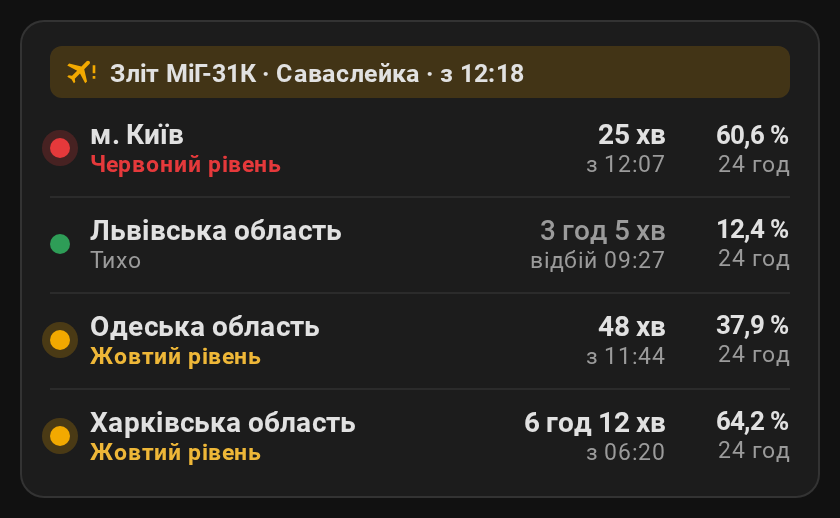
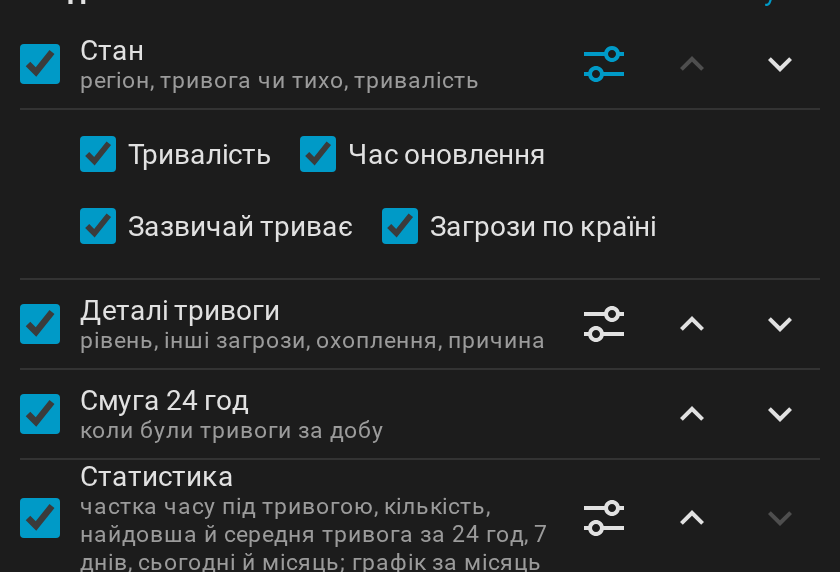
Docs: card screenshots for 0.15.0 (country-wide threats, usual length, one level label, actions in the editor)

diff --git a/README.md b/README.md
@@ -79,7 +79,7 @@
 
 | Кілька регіонів | Один регіон |
 | --- | --- |
-| <img src="docs/images/card-regions.png" alt="Компактний список: рядок на регіон зі станом, тривалістю й часткою часу під тривогою за 24 год" width="400"> | <img src="docs/images/card-full.png" alt="Повна картка: стан, деталі тривоги, смуга за добу, таблиця статистики й графік за місяць" width="400"> |
+| <img src="docs/images/card-regions.png" alt="Компактний список: загрози по країні, рядок на регіон зі станом, тривалістю й часткою часу під тривогою за 24 год" width="400"> | <img src="docs/images/card-full.png" alt="Повна картка: загрози по країні, стан, скільки зазвичай триває тривога, деталі тривоги, смуга за добу, таблиця статистики й графік за місяць" width="400"> |
 
 Значення на знімках наведено для прикладу.
 
@@ -127,7 +127,7 @@ Home Assistant. У списку дія стосується регіону, на
 5. Натисніть **Зберегти**. Розділи стосуються картки одного регіону; щоб бачити
    деталі й статистику кількох регіонів, додайте окрему картку для кожного.
 
-<img src="docs/images/card-editor.png" alt="Редактор картки: регіони, назва, мова, розділи та пункти розділу «Статистика»" width="400">
+<img src="docs/images/card-editor.png" alt="Редактор картки: регіони, назва, мова, дії при натисканні й утриманні, розділи та пункти розділу «Стан»" width="400">
 
 Для панелей у режимі YAML додайте ресурс вручну:
 `/ukraine_alarm_pro/ukraine-alarm-pro-card.js`, тип `module`.

diff --git a/README.en.md b/README.en.md
@@ -77,7 +77,7 @@ list. You can combine them, for example a list of all regions and a full card fo
 
 | Several regions | One region |
 | --- | --- |
-| <img src="docs/images/card-regions.png" alt="Compact list: a line per region with the state, duration and share of time under alert over 24 h" width="400"> | <img src="docs/images/card-full.png" alt="Full card: status, alert details, day strip, statistics table and month chart" width="400"> |
+| <img src="docs/images/card-regions.png" alt="Compact list: country-wide threats, a line per region with the state, duration and share of time under alert over 24 h" width="400"> | <img src="docs/images/card-full.png" alt="Full card: country-wide threats, status, how long alerts usually last, alert details, day strip, statistics table and month chart" width="400"> |
 
 The values in the screenshots are examples.
 
@@ -123,7 +123,7 @@ tapped. A country-wide threat label always opens its own sensor.
 5. Press **Save**. Sections apply to a one-region card; to see the details and
    statistics of several regions, add a card for each.
 
-<img src="docs/images/card-editor.png" alt="Card editor: regions, name, language, sections and the items of the Statistics section" width="400">
+<img src="docs/images/card-editor.png" alt="Card editor: regions, name, language, tap and hold actions, sections and the items of the Status section" width="400">
 
 For YAML-mode dashboards, add the resource manually:
 `/ukraine_alarm_pro/ukraine-alarm-pro-card.js`, type `module`.
